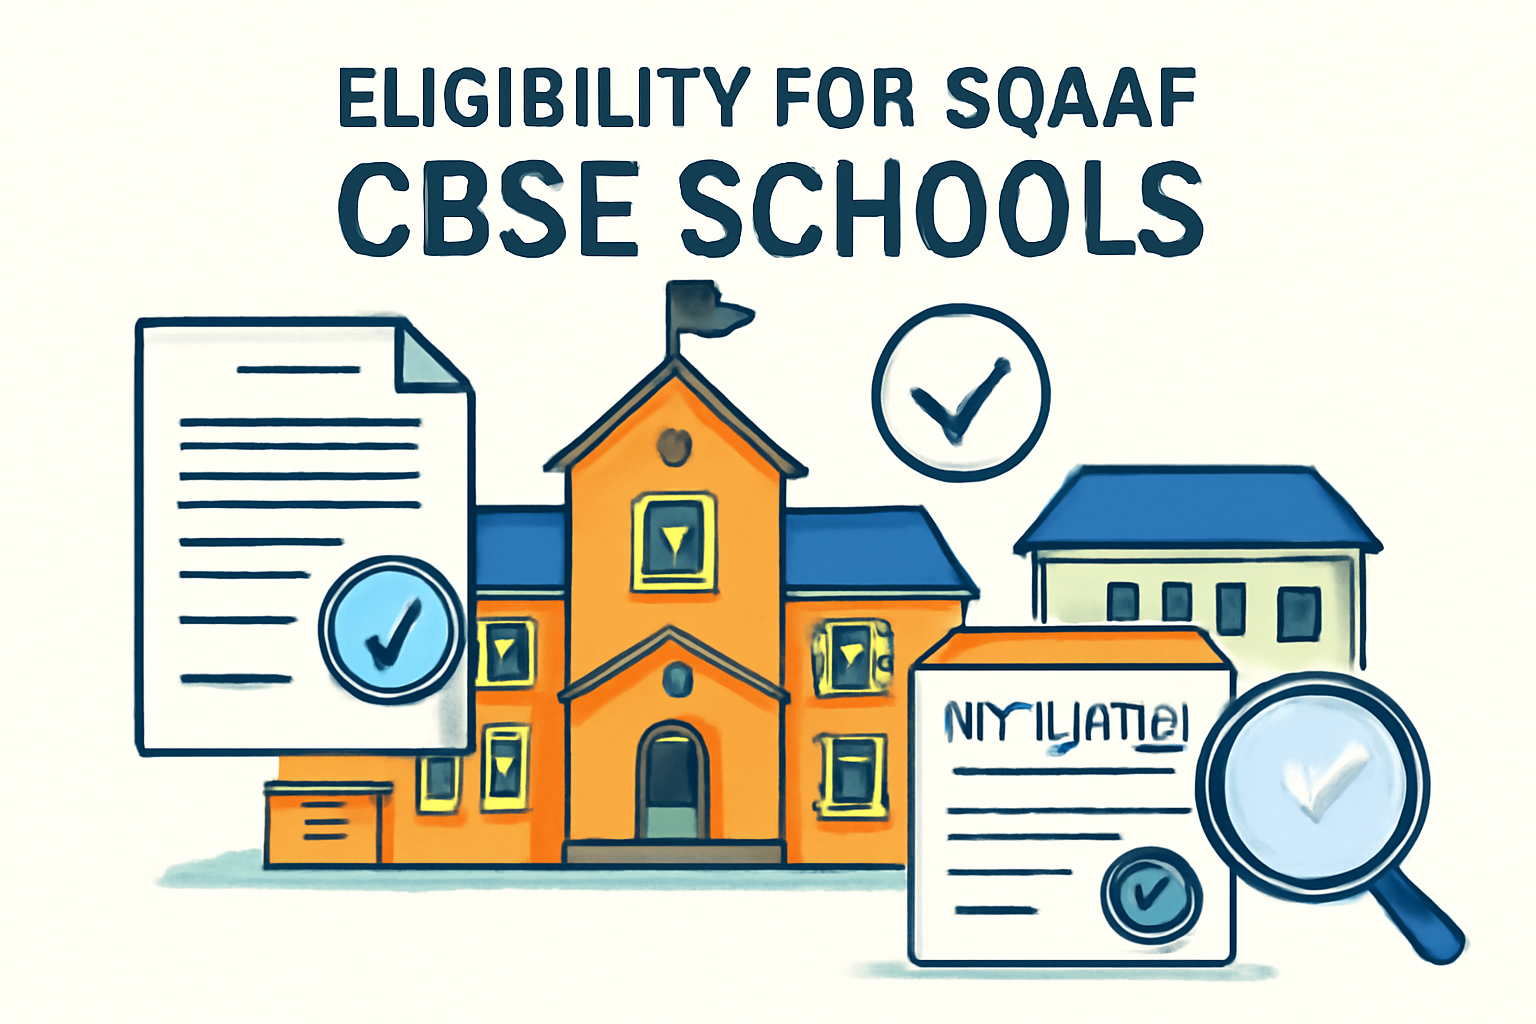
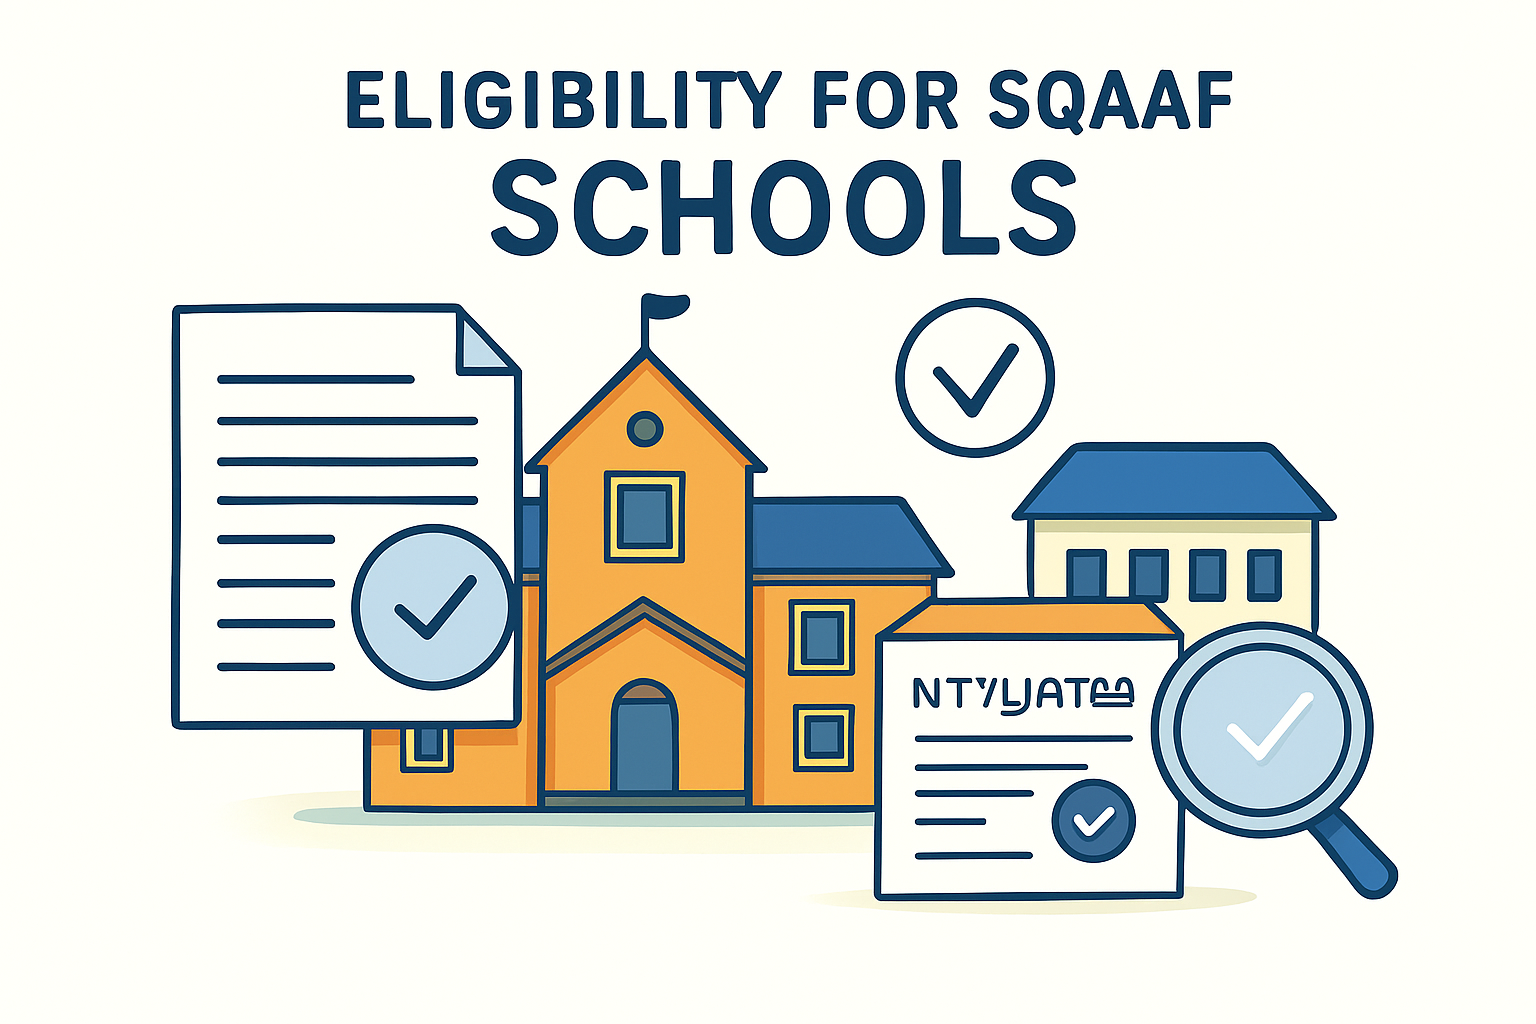
image_changes

diff --git a/index.html b/index.html
@@ -787,9 +787,37 @@
                         </div>
                     </div> -->
                 </div>
-
-                <!-- Eligibility Section -->
                 <div class="eligibility-section">
+                    <h3>Eligibility for SQAAF Process</h3>
+                    <div class="eligibility-content">
+                        <div class="eligibility-image">
+                            <div class="image-container">
+                                <img src="assets\eligibility.png" alt="CBSE Schools">
+                                <div class="image-placeholder">
+                                    <i class="fas fa-school"></i>
+                                    <p>CBSE Affiliated Schools</p>
+                                </div>
+                            </div>
+                        </div>
+                        <div class="eligibility-text">
+                            <div class="eligibility-item">
+                                <i class="fas fa-graduation-cap"></i>
+                                <div>
+                                    <p>Schools must undergo the process of SQAAF and self-assess themselves on the SQAAF Framework every year on SQAAF Portal.</p>
+                                </div>
+                            </div>
+                            <div class="eligibility-item">
+                                <i class="fas fa-file-alt"></i>
+                                <div>
+                                    <p>Aspiring Schools can also undertake self-assessment against the framework in an offline mode and prepare themselves while submitting application for affiliation.</p>
+                                </div>
+                            </div>
+                        </div>
+                    </div>
+                </div>
+ 
+                <!-- Eligibility Section -->
+                <!-- <div class="eligibility-section">
                     <h3>Eligibility for SQAAF Process</h3>
                     <div class="eligibility-content">
                         <div class="eligibility-image">
@@ -818,7 +846,7 @@
                             </div>
                         </div>
                     </div>
-                </div>
+                </div> -->
             </div>
         </section>
     </div>
